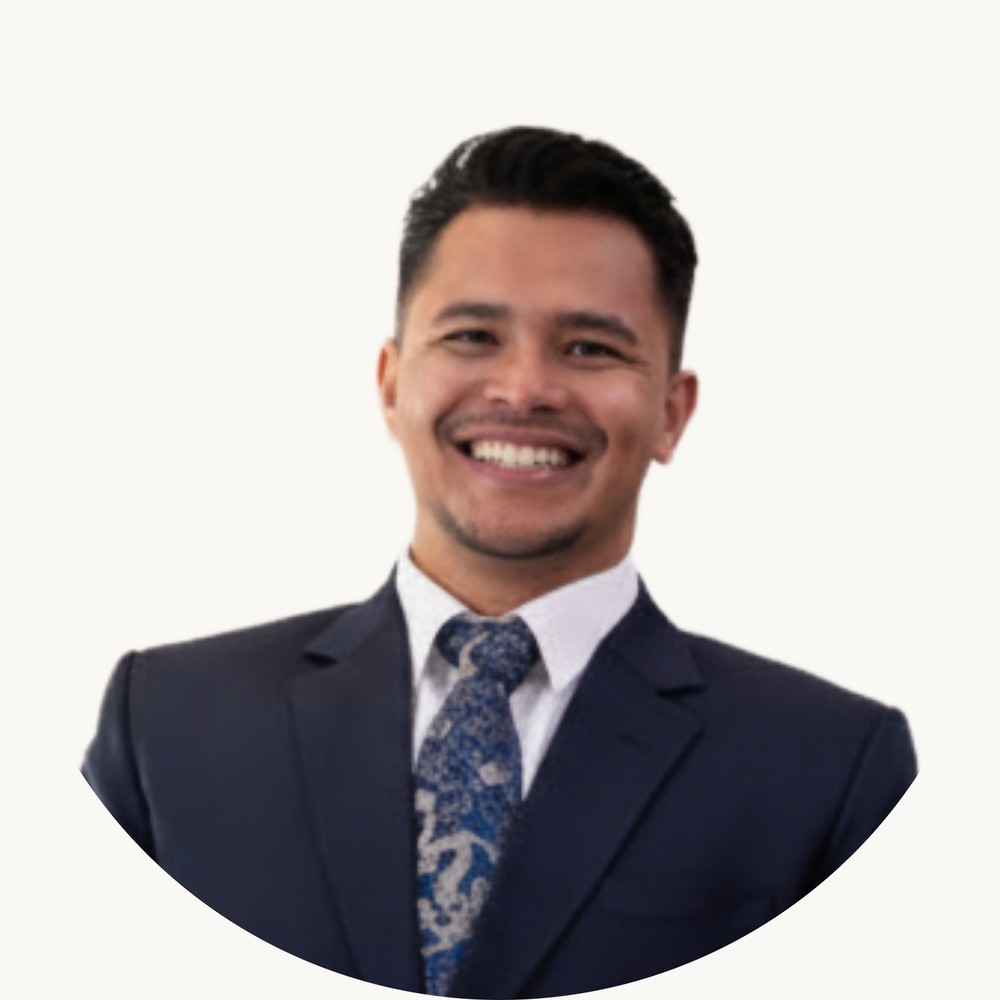
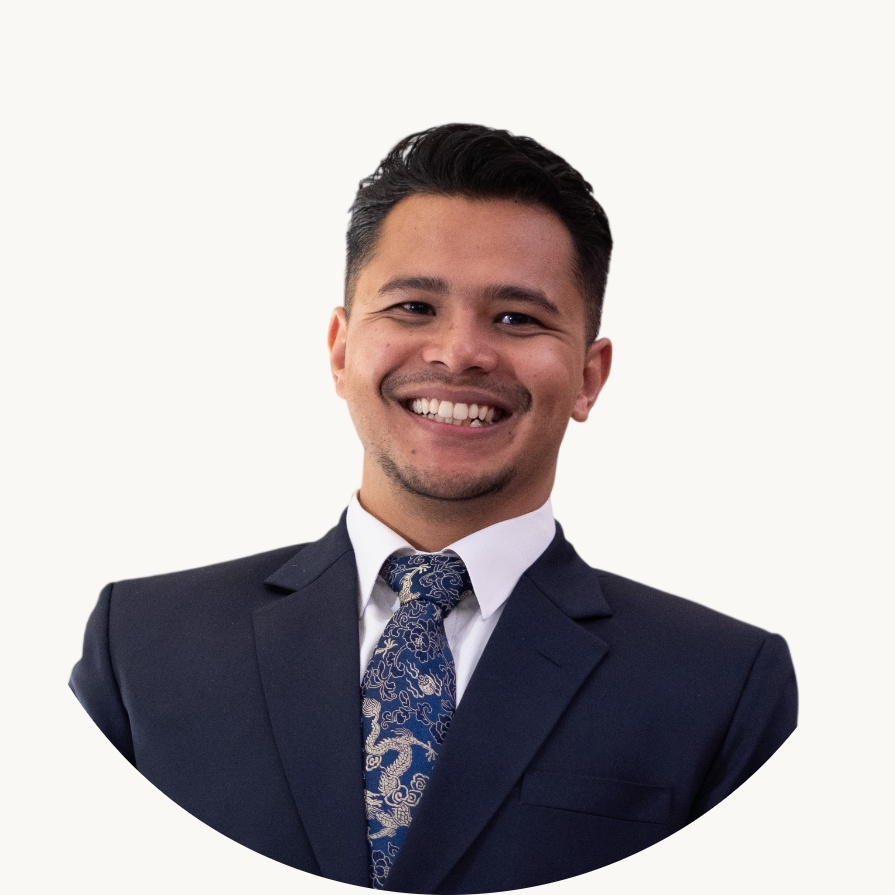
/about headshot: sharper crop + higher render quality
Use the tighter cropped cutout (face fills more of the frame = more
effective resolution) at native res, and raise next/image quality from the
default 75 to 92 so the detailed photo stops looking soft. Ignore the raw
cutout source.

diff --git a/app/about/page.tsx b/app/about/page.tsx
@@ -27,9 +27,10 @@ export default function AboutPage() {
           <Image
             src="/static/images/headshot.jpg"
             alt="Nripesh Pradhan"
-            width={800}
-            height={800}
+            width={895}
+            height={895}
             priority
+            quality={92}
             sizes="(min-width: 640px) 15rem, 11rem"
             className="mx-auto h-44 w-44 rounded-full border border-border object-cover shadow-[0_1px_2px_rgba(0,0,0,0.04),0_12px_30px_-14px_rgba(0,0,0,0.28)] sm:ml-auto sm:mr-0 sm:h-60 sm:w-60"
           />